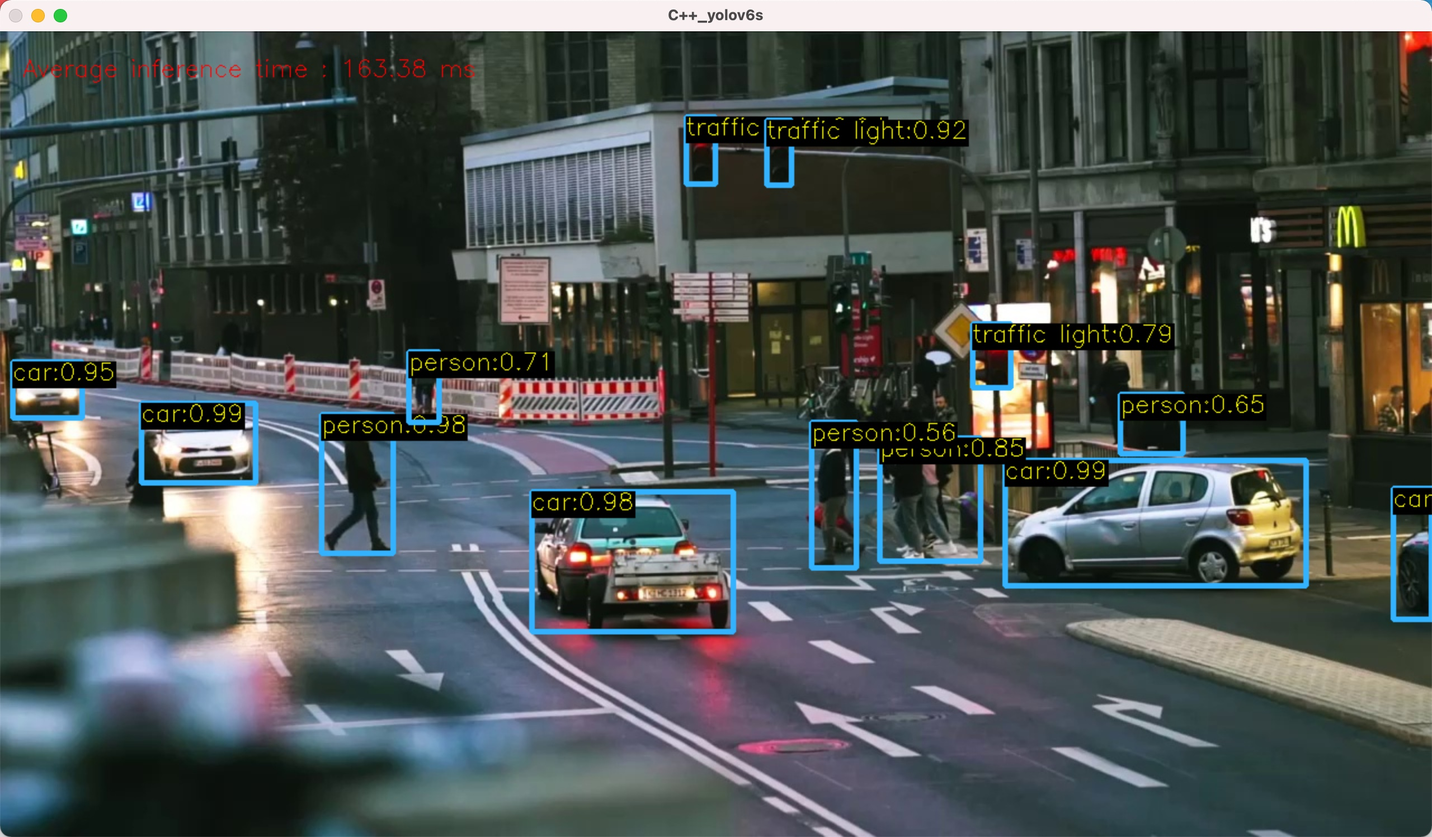
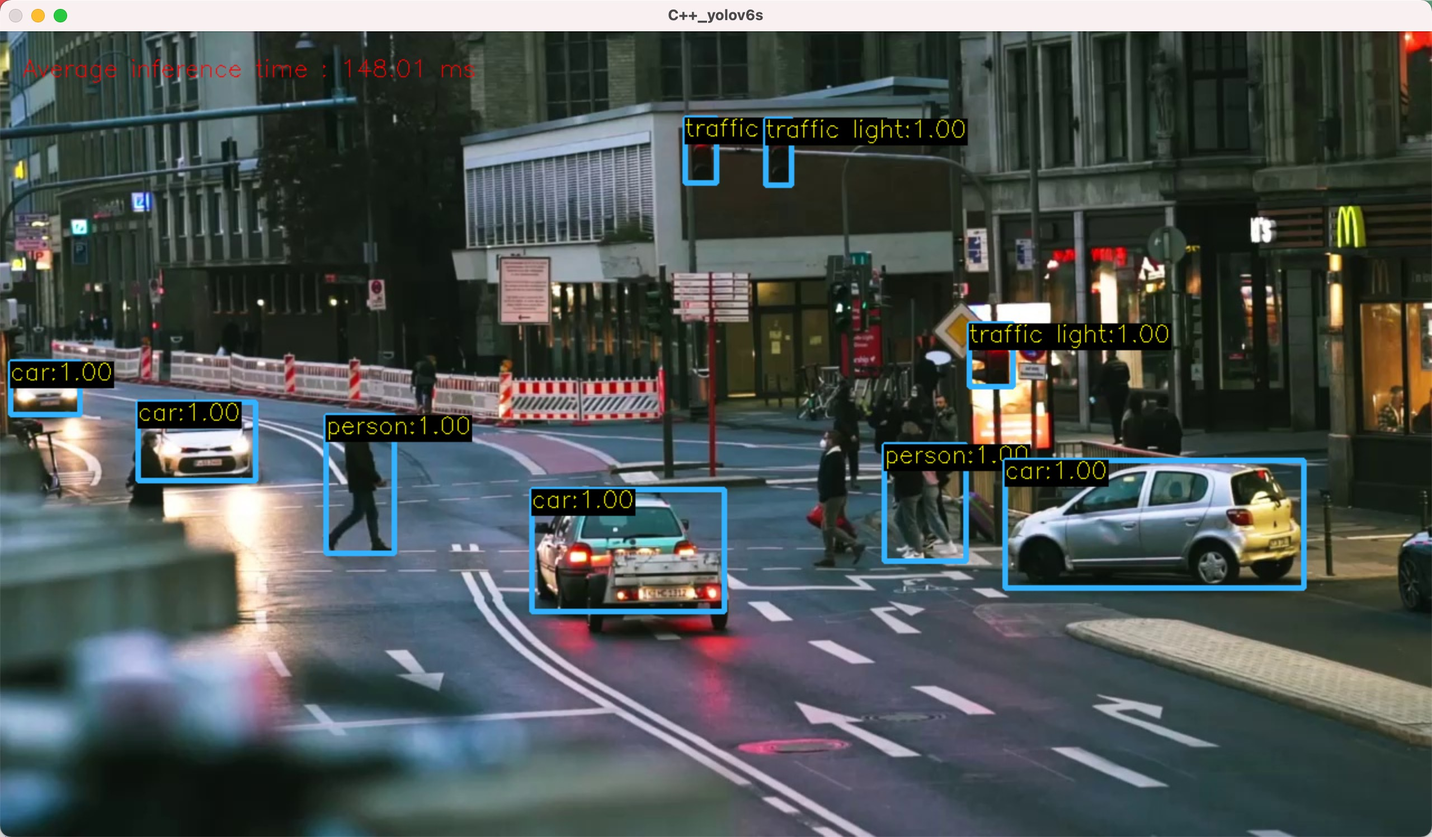
update opencv inference speed for yolov6-3.0 models

diff --git a/deploy/ONNX/OpenCV/README.md b/deploy/ONNX/OpenCV/README.md
@@ -71,9 +71,9 @@ make
 | **YOLOv5s** | 200.53 | 202.22 | 37.4 | 7.2 | 16.5 |
 | **YOLOv5m** | 294.98 | 291.86 | 45.4 | 21.2 | 49.0 |
 |  |  |  |  |  |  |
-| **YOLOv6-n** | 66.88 | 69.96 | 35.0 | 4.3 | 4.7 |
-| **YOLOv6-tiny** | 133.15 | 137.59 | 41.3 | 15.0 | 36.7 |
-| **YOLOv6-s** | 164.44 | 163.38 | 43.1 | 17.2 | 44.2 |
+| **YOLOv6-n** | 62.37 | 60.34 | 37.5 | 4.7 | 11.4 |
+| **YOLOv6-s** | 137.94 | 148.01 | 45.0 | 18.5 | 45.3 |
+| **YOLOv6-m** | 264.40 | 269.31 | 50.0 | 34.9 | 85.8 |
 |  |  |  |  |  |  |
 | **YOLOX-Nano** | 81.06 | 86.75 | 25.8@416 | 0.91 | 1.08@416 |
 | **YOLOX-tiny** | 129.72 | 144.19 | 32.8@416 | 5.06 | 6.45@416 |
